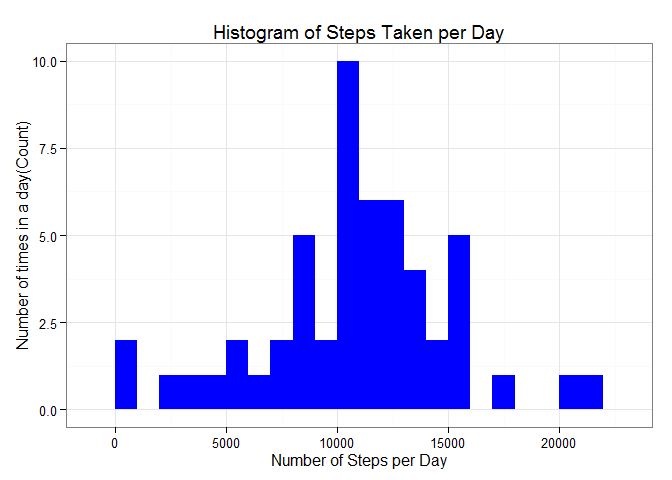
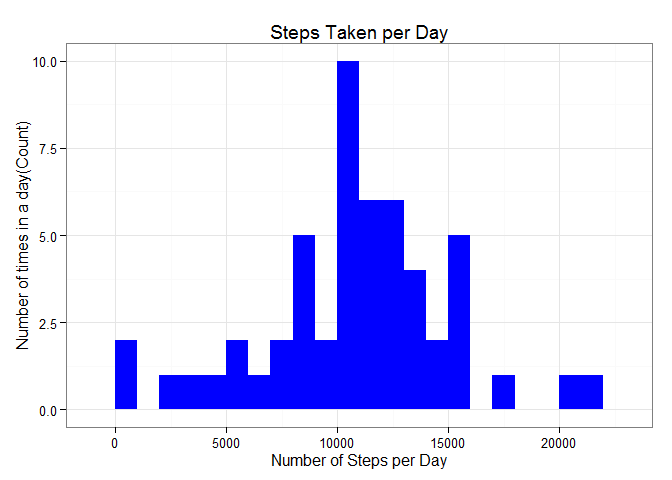
For submission

Changed region(s): [[0.3125, 0.0312, 0.75, 0.0938]]

diff --git a/PA1_template.html b/PA1_template.html
@@ -95,14 +95,15 @@ head(steps_per_day)</code></pre>
 library(ggplot2)
 ggplot(steps_per_day, aes(x = steps)) + 
        geom_histogram(fill = &quot;blue&quot;, binwidth = 1000) + 
-        labs(title=&quot;Histogram of Steps Taken per Day&quot;, 
+        labs(title=&quot;Steps Taken per Day&quot;, 
              x = &quot;Number of Steps per Day&quot;, y = &quot;Number of times in a day(Count)&quot;) + theme_bw() </code></pre>
[1 lines of base64/hex data omitted]
-<pre class="r"><code># calculate the mean and medium of the steps
[1 lines of base64/hex data omitted]
+<pre class="r"><code># calculate the mean of the steps
 steps_mean   &lt;- mean(steps_per_day$steps, na.rm=TRUE)
 steps_mean</code></pre>
 <pre><code>## [1] 10766.19</code></pre>
-<pre class="r"><code>steps_median &lt;- median(steps_per_day$steps, na.rm=TRUE)
+<pre class="r"><code># calculate the medium of the steps
+steps_median &lt;- median(steps_per_day$steps, na.rm=TRUE)
 steps_median</code></pre>
 <pre><code>## [1] 10765</code></pre>
 </div>
@@ -122,7 +123,7 @@ ggplot(steps_per_interval, aes(x=interval, y=steps)) +
         geom_line(color=&quot;orange&quot;, size=1) +  
         labs(title=&quot;Average Daily Activity Pattern&quot;, x=&quot;5-minute interval&quot;, y=&quot;average number of steps taken&quot;) +  theme_bw()</code></pre>
[1 lines of base64/hex data omitted]
-<pre class="r"><code># find the highest
+<pre class="r"><code># find the maximum number of steps
 max_interval &lt;- steps_per_interval[which.max(steps_per_interval$steps),]
 max_interval</code></pre>
 <pre><code>##     interval    steps
@@ -130,7 +131,13 @@ max_interval</code></pre>
 </div>
 <div id="imputing-missing-values" class="section level2">
 <h2>Imputing missing values</h2>
-<pre class="r"><code># total number of missing values
+<pre class="r"><code>#strageties
+#1. calculate the number of missing value
+#2. replace the missing value
+#3. re-ensure again there is not missing value before ploting the histogram
+#4. plot the histogram
+
+# total number of missing values
 missing_vals &lt;- sum(is.na(rdata$steps))
 missing_vals</code></pre>
 <pre><code>## [1] 2304</code></pre>
@@ -163,7 +170,7 @@ Balance_fill</code></pre>
 fill_steps_per_day &lt;- aggregate(steps ~ date, rdata_fill, sum)
 colnames(fill_steps_per_day) &lt;- c(&quot;date&quot;,&quot;steps&quot;)
 
-##plotting the histogram
+##plotting the histogram after imputing missing values
 ggplot(fill_steps_per_day, aes(x = steps)) + 
        geom_histogram(fill = &quot;blue&quot;, binwidth = 1000) + 
         labs(title=&quot;Histogram of Steps Taken per Day&quot;, 
@@ -201,8 +208,7 @@ data_by_weekdays &lt;- function(data) {
 
 data_weekdays &lt;- data_by_weekdays(rdata_fill)
 
-#plot the charts
-
+#plot the charts for comparison
 library(ggplot2)
 ggplot(data_weekdays, aes(x=interval, y=steps)) + 
         geom_line(color=&quot;orange&quot;) + 

diff --git a/PA1_template.md b/PA1_template.md
@@ -44,14 +44,14 @@ head(steps_per_day)
 library(ggplot2)
 ggplot(steps_per_day, aes(x = steps)) + 
        geom_histogram(fill = "blue", binwidth = 1000) + 
-        labs(title="Histogram of Steps Taken per Day", 
+        labs(title="Steps Taken per Day", 
              x = "Number of Steps per Day", y = "Number of times in a day(Count)") + theme_bw() 
 ```
 
 ![](PA1_template_files/figure-html/calculate the mean total number of steps taken-1.png) 
 
 ```r
-# calculate the mean and medium of the steps
+# calculate the mean of the steps
 steps_mean   <- mean(steps_per_day$steps, na.rm=TRUE)
 steps_mean
 ```
@@ -61,6 +61,7 @@ steps_mean
 ```
 
 ```r
+# calculate the medium of the steps
 steps_median <- median(steps_per_day$steps, na.rm=TRUE)
 steps_median
 ```
@@ -92,7 +93,7 @@ ggplot(steps_per_interval, aes(x=interval, y=steps)) +
 ![](PA1_template_files/figure-html/average daily acvitiy pattern-1.png) 
 
 ```r
-# find the highest
+# find the maximum number of steps
 max_interval <- steps_per_interval[which.max(steps_per_interval$steps),]
 max_interval
 ```
@@ -107,6 +108,12 @@ max_interval
 
 
 ```r
+#strageties
+#1. calculate the number of missing value
+#2. replace the missing value
+#3. re-ensure again there is not missing value before ploting the histogram
+#4. plot the histogram
+
 # total number of missing values
 missing_vals <- sum(is.na(rdata$steps))
 missing_vals
@@ -158,7 +165,7 @@ Balance_fill
 fill_steps_per_day <- aggregate(steps ~ date, rdata_fill, sum)
 colnames(fill_steps_per_day) <- c("date","steps")
 
-##plotting the histogram
+##plotting the histogram after imputing missing values
 ggplot(fill_steps_per_day, aes(x = steps)) + 
        geom_histogram(fill = "blue", binwidth = 1000) + 
         labs(title="Histogram of Steps Taken per Day", 
@@ -201,8 +208,7 @@ data_by_weekdays <- function(data) {
 
 data_weekdays <- data_by_weekdays(rdata_fill)
 
-#plot the charts
-
+#plot the charts for comparison
 library(ggplot2)
 ggplot(data_weekdays, aes(x=interval, y=steps)) + 
         geom_line(color="orange") + 
